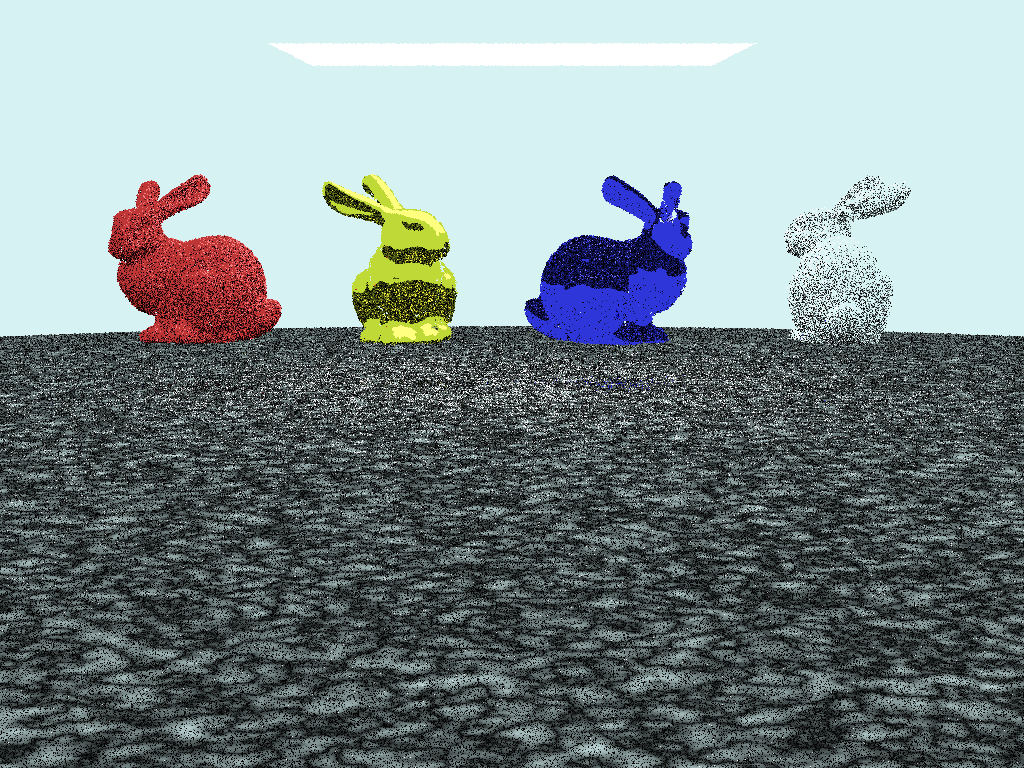
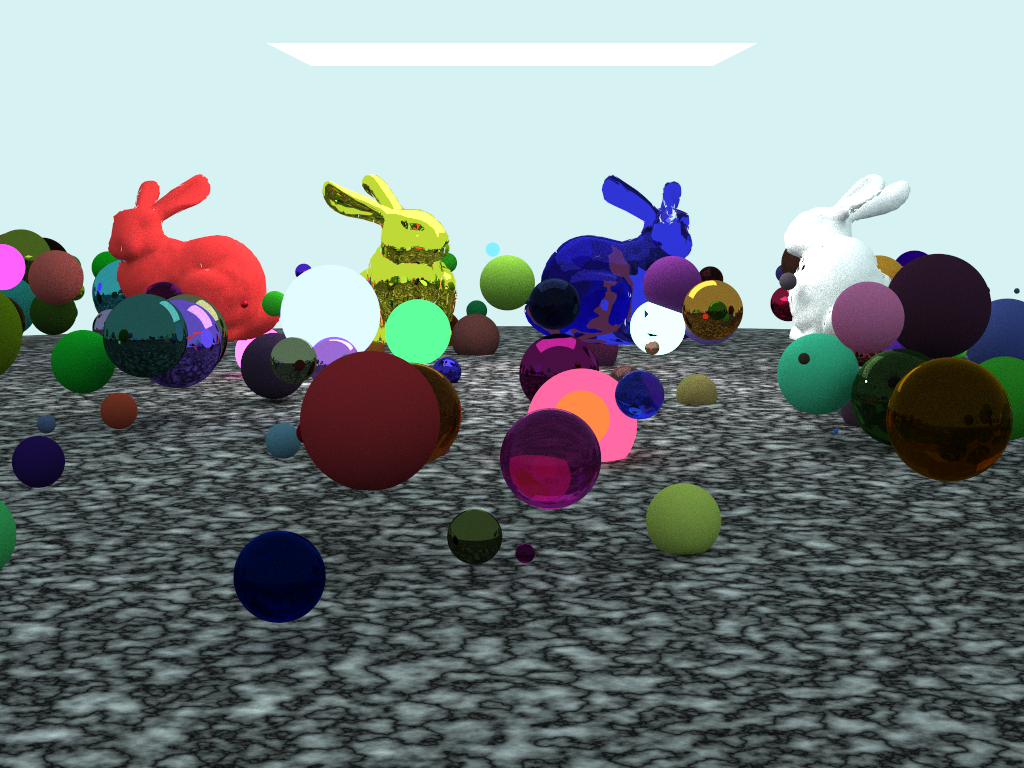
close #1, depth order is fixed without scale

diff --git a/scene/planeandbunny.h b/scene/planeandbunny.h
@@ -26,7 +26,6 @@ std::vector<std::shared_ptr<Primitive>> scene() {
         auto z = (random_double() * 2.0f - 1.0f) * sphere_field;
         ts.pushMatrix();
         ts.translate(vec3(x, y, z));
-        // ts.scale(random_double() * 2.0f);
         auto albedo = vec3::random() * vec3::random();
         
         double rnd = random_double();
@@ -47,7 +46,6 @@ std::vector<std::shared_ptr<Primitive>> scene() {
     
     ts.pushMatrix();
     ts.translate(vec3(0.0f, 15.0, 0.0f));
-    ts.scale(2.0f);
     // emissive texture
     auto white_texture = std::make_shared<ConstantTexture>(vec3(1.0f));
     auto emissive = std::make_shared<Emitter>(white_texture, 5.0f);
@@ -63,11 +61,10 @@ std::vector<std::shared_ptr<Primitive>> scene() {
     // bunny 1
     ts.pushMatrix();
     ts.translate(vec3(-15, 5, 0));
-    ts.scale(50.0f);
 
     auto albedo = vec3(0.8, 0.05, 0.05);
     std::shared_ptr<Material> bunny_lambert = std::make_shared<Lambertian>(albedo);
-    auto bunny = createTriangleMesh("data/model/bunny.obj", vec3(0.0f), 1.0f, vec3(1,1,1), true);
+    auto bunny = createTriangleMesh("data/model/bunny.obj", vec3(0.0f), 50.0f, vec3(1,1,1), true);
     auto bunny_transform = std::make_shared<Transform>(ts.getCurrentTransform());
 
     for(auto &triangle : bunny) {
@@ -81,11 +78,10 @@ std::vector<std::shared_ptr<Primitive>> scene() {
     ts.pushMatrix();
     ts.translate(vec3(-5, 5, 0));
     ts.rotateY(pi/2.f);
-    ts.scale(50.0f);
 
     albedo = vec3(0.80, 0.80, 0.05);
     bunny_lambert = std::make_shared<Metal>(albedo, 0.0f);
-    bunny = createTriangleMesh("data/model/bunny.obj", vec3(0.0f), 1.0f, vec3(1,1,1), true);
+    bunny = createTriangleMesh("data/model/bunny.obj", vec3(0.0f), 50.0f, vec3(1,1,1), true);
     bunny_transform = std::make_shared<Transform>(ts.getCurrentTransform());
 
     for(auto &triangle : bunny) {
@@ -99,11 +95,10 @@ std::vector<std::shared_ptr<Primitive>> scene() {
     ts.pushMatrix();
     ts.translate(vec3(5, 5, 0));
     ts.rotateY(pi);
-    ts.scale(50.0f);
 
     albedo = vec3(0.05, 0.05, 0.80);
     bunny_lambert = std::make_shared<Dielectric>(albedo, 1.52f);
-    bunny = createTriangleMesh("data/model/bunny.obj", vec3(0.0f), 1.0f, vec3(1,1,1), true);
+    bunny = createTriangleMesh("data/model/bunny.obj", vec3(0.0f), 50.0f, vec3(1,1,1), true);
     bunny_transform = std::make_shared<Transform>(ts.getCurrentTransform());
 
     for(auto &triangle : bunny) {
@@ -117,11 +112,10 @@ std::vector<std::shared_ptr<Primitive>> scene() {
     ts.pushMatrix();
     ts.translate(vec3(15, 5, 0));
     ts.rotateY(3.f*pi/2.f);
-    ts.scale(50.0f);
 
     albedo = vec3(1.0f);
     bunny_lambert = std::make_shared<Lambertian>(albedo);
-    bunny = createTriangleMesh("data/model/bunny.obj", vec3(0.0f), 1.0f, vec3(1,1,1), true);
+    bunny = createTriangleMesh("data/model/bunny.obj", vec3(0.0f), 50.0f, vec3(1,1,1), true);
     bunny_transform = std::make_shared<Transform>(ts.getCurrentTransform());
 
     for(auto &triangle : bunny) {
